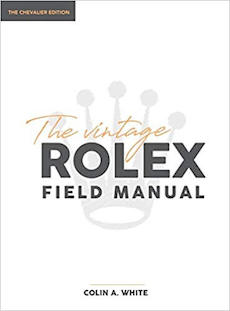
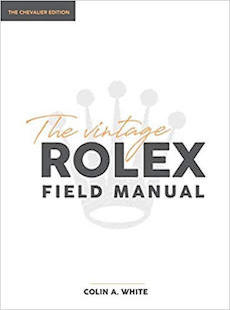
img resize

diff --git a/index.html b/index.html
@@ -16,9 +16,11 @@
   <meta name="description" content= "The Vintage Rolex Field Guide Book Series. Learn how to find the vintage watch of your dreams without breaking your heart or the bank. Acquire the skills and the data to verify a watch, take on the sellers and strike a deal. If knowledge is power and data is a tool, then this is your Play Book for success." />
     
   <meta name="keywords" content="Vintage, Rolex, Watches, Field, Guide, Manual, Chevalier, superlative, chronometer, cosmograph, perpetual, datejust, submariner, explorer, daytona, sea-dweller, oyaterquartz, cellini">
-
+<!-- 
   <base href="https://www.vrfg.io/" target="_blank">
-  
+  -->
+  <base href="http://localhost/www.vrfg.io%20Github/" target="_blank">
+
   <title>The Vintage Rolex Field Guide Book Series</title>
 
   <!-- Local VRFM Stylesheet -->
@@ -89,8 +91,8 @@
 <!------------------------------------------------------------------------------------------>
         <div class="row">
           <div class="col-md-4">
-            <div class="card mb-4 shadow-sm">
-              <img src="images/vrfm-cover.jpg" width="70%" alt="VRFM book image"> 
+            <div class="card mb-4 shadow-sm" style="padding-top:20px;">
+              <img src="images/vrfm-cover.png" width="75%" style="border: 1px solid gray;" alt="VRFM book image"> 
               <div class="card-body">
                 <p class="card-">
                   <h5>The Vintage Rolex Field Manual</h5>
